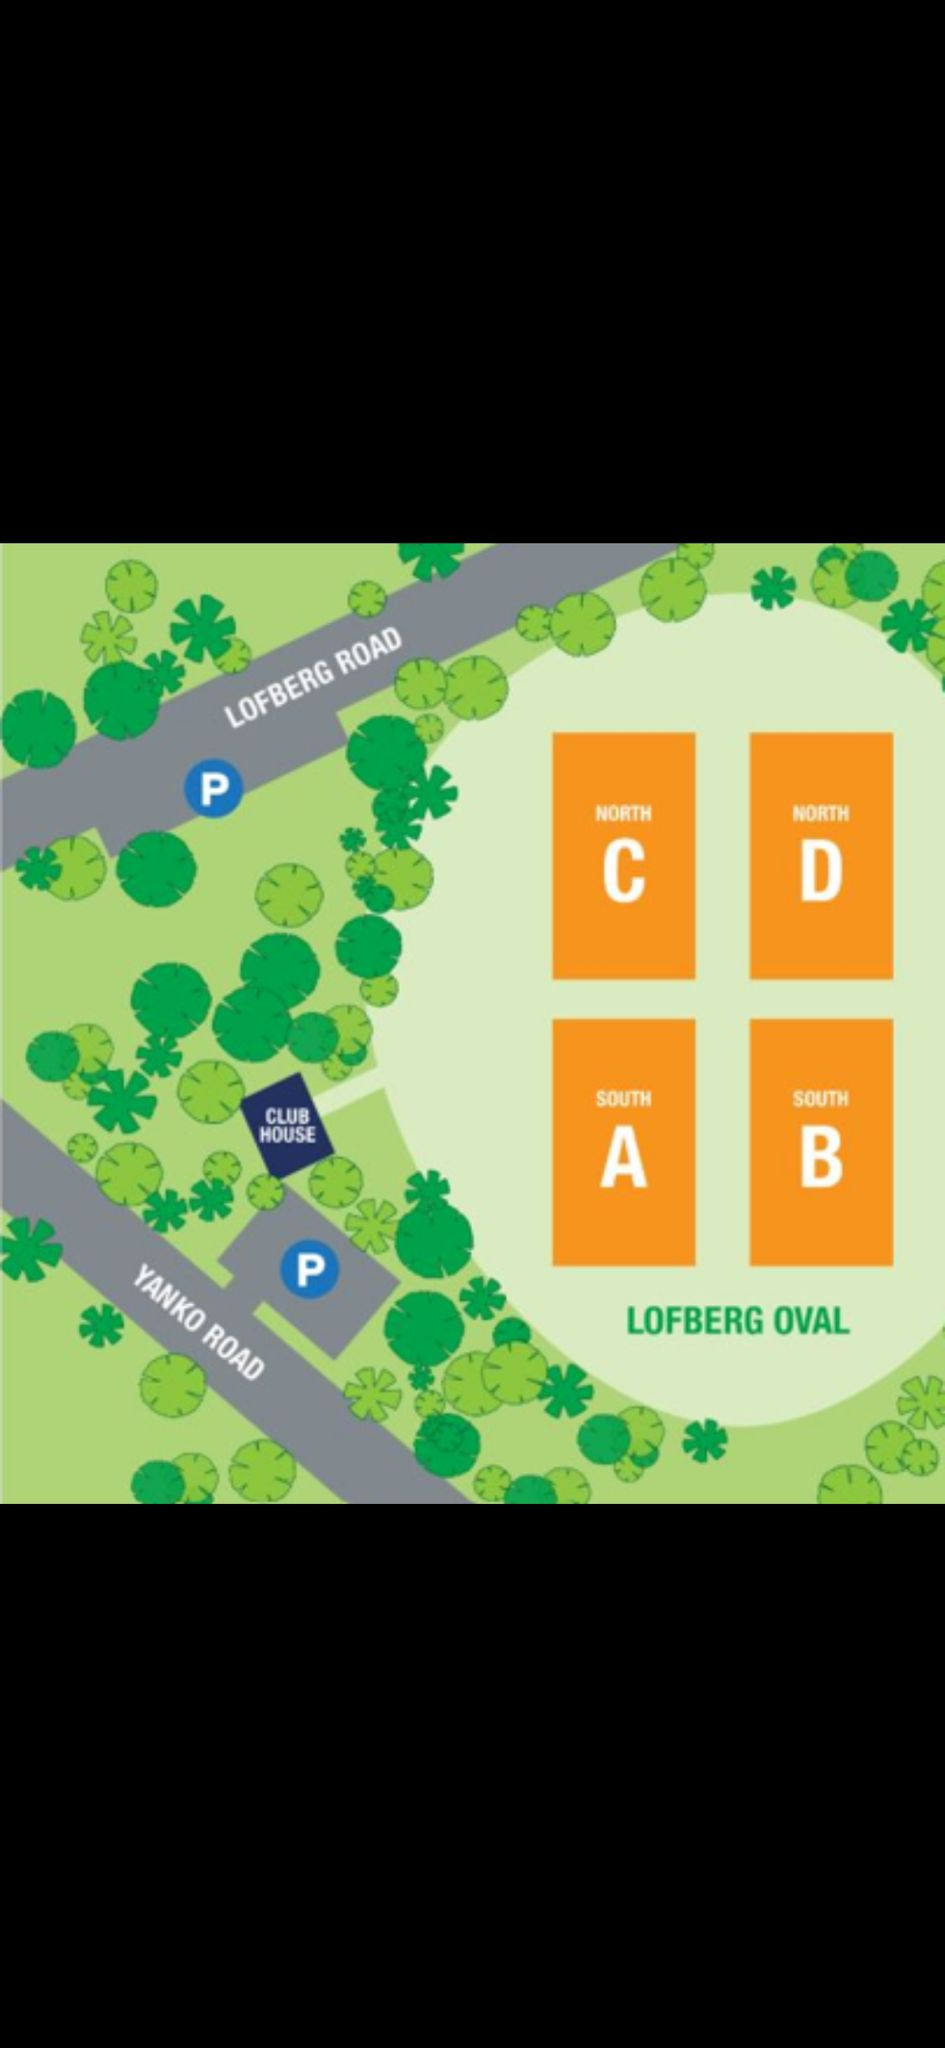
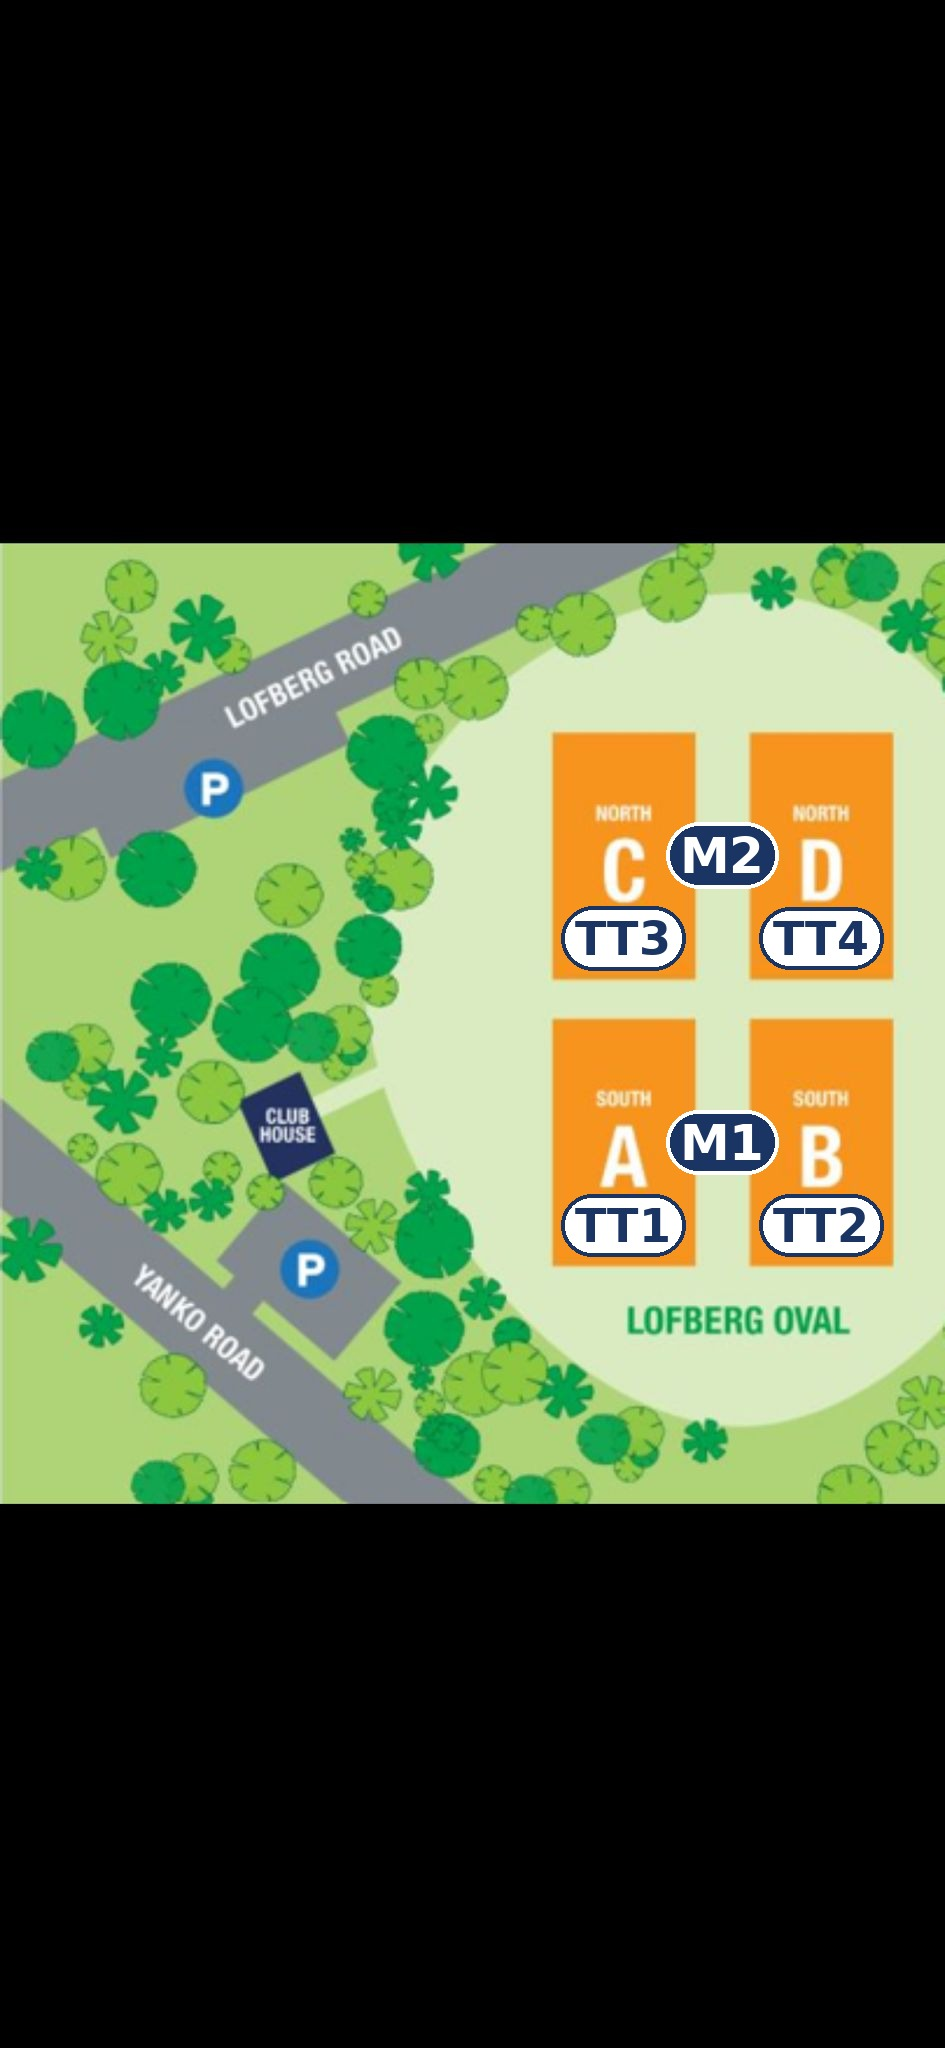
Add dual-layout Lofberg Oval map and venue entry (#48)
* Tag Lofberg Oval ground maps with TT/M pitch labels

Annotate both Lofberg Oval venue maps so each ground-map box shows
both its original letter and its fixtures designation:
- Quarter pitch (lofberg-oval): A=TT1, B=TT2, C=TT3, D=TT4
- Half pitch (lofberg-oval-u9): E=M1, F=M2

Same physical oval, two layouts (quarter vs half pitch), matching the
dual-tagging style of the Hassall Park map.

* Merge Lofberg Oval maps into one dual-layout image and wire up venue entry

- Combine the quarter- and half-pitch Lofberg maps into a single
  lofberg-oval.jpeg, tagging the four quarter boxes TT1–TT4 and the two
  halves M1 (south) / M2 (north) on the one ground map, mirroring the
  dual-tagged Hassall Park map. Remove the now-redundant -u9 image.
- Add a Lofberg Oval venue entry with map + caption and regenerate
  docs/config.js (image cache-busted by content hash).

* Add merged dual-layout Lofberg map and venue entry

The previous commit only removed the redundant -u9 image; this carries
the actual content:
- Merged lofberg-oval.jpeg tagging the four quarter boxes TT1–TT4 and the
  two halves M1 (south) / M2 (north) on one ground map.
- Lofberg Oval venue entry with map + caption, with docs/config.js
  regenerated (image cache-busted by content hash).

---------

Changed region(s): [[0.5831, 0.5312, 0.9513, 0.625], [0.5831, 0.375, 0.9513, 0.5]]

diff --git a/docs/config.js b/docs/config.js
@@ -100,7 +100,14 @@ window.LCJRU_CONFIG = {
     },
     "Lofberg Oval": {
       "suburb": "West Pymble",
-      "mapsUrl": "https://www.google.com/maps/search/?api=1&query=Lofberg+Oval+Lofberg+Rd%2C+West+Pymble+NSW+2073%2C+Australia"
+      "mapsUrl": "https://www.google.com/maps/search/?api=1&query=Lofberg+Oval+Lofberg+Rd%2C+West+Pymble+NSW+2073%2C+Australia",
+      "details": {
+        "map": {
+          "src": "assets/venues/lofberg-oval.jpeg?v=92b318ae",
+          "caption": "Same pitch, two layouts — quarter pitch TT1–TT4, half pitch M1 (south) / M2 (north). Clubhouse and parking off Lofberg Rd & Yanko Rd.",
+          "asOf": "2026-05"
+        }
+      }
     },
     "Mark Taylor Oval": {
       "suburb": "Waitara",